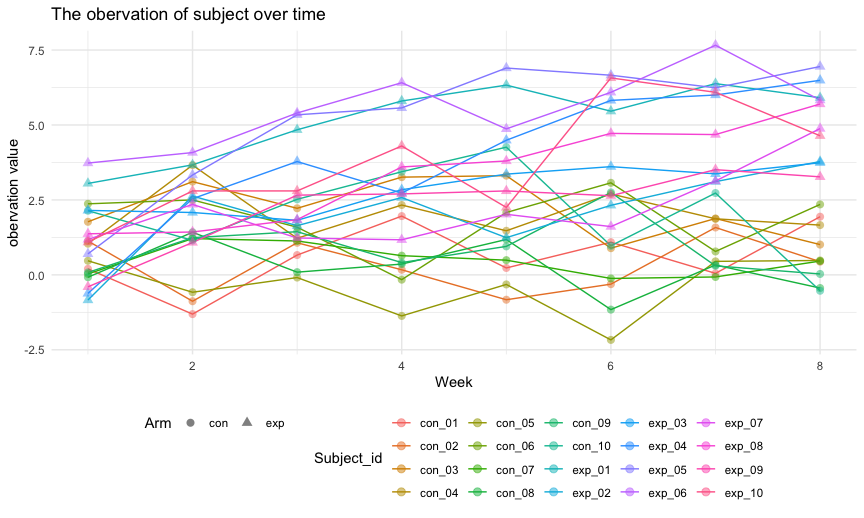
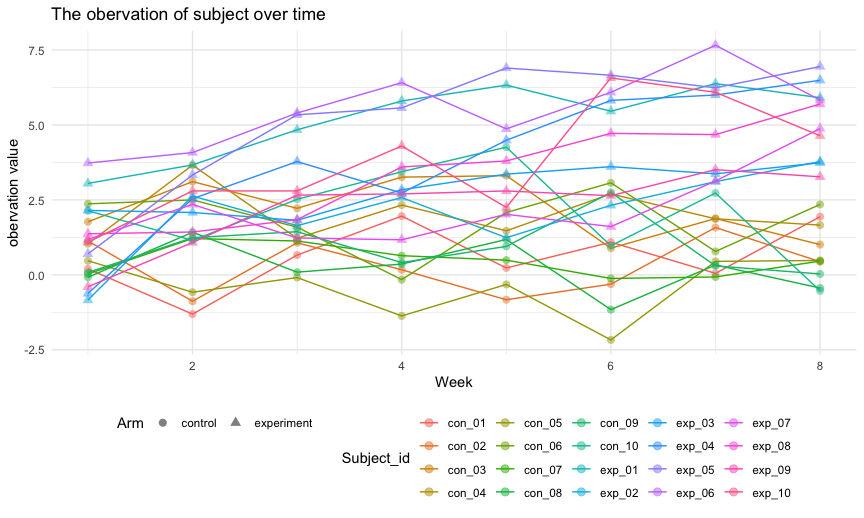
change legend

Changed region(s): [[0.3438, 0.8031, 0.9062, 0.9575], [0.125, 0.8031, 0.375, 0.834]]

diff --git a/p8105_hw5_hc3212.md b/p8105_hw5_hc3212.md
@@ -225,10 +225,12 @@ study_df %>%
     x = "Week",
     ) +
   scale_colour_hue("Subject_id")+
-  scale_shape("Arm")
+  scale_shape(name = "Arm",
+              labels = c("control", "experiment")) 
 ```
 
 <img src="p8105_hw5_hc3212_files/figure-gfm/spaghetti-1.png" width="90%" />
+
 It could find from the graph that most experiment group have higher
 observation value than the control group.
 
